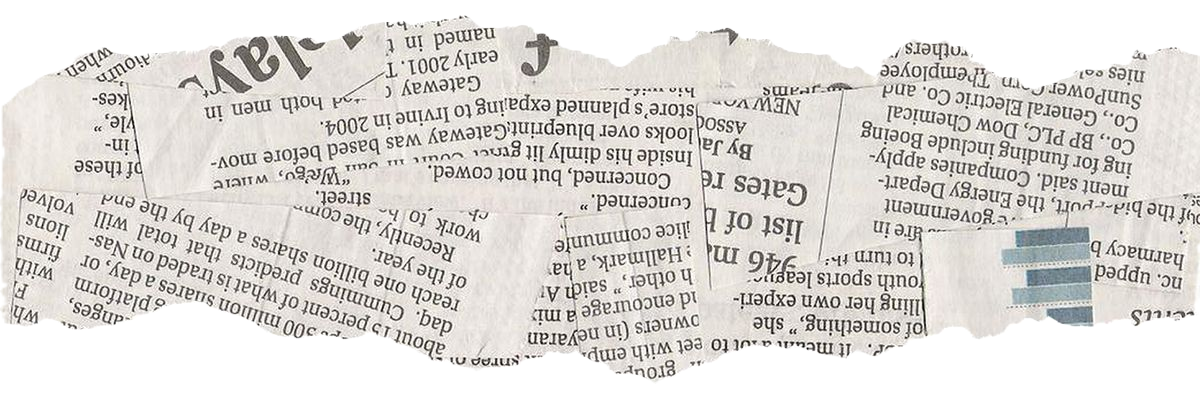
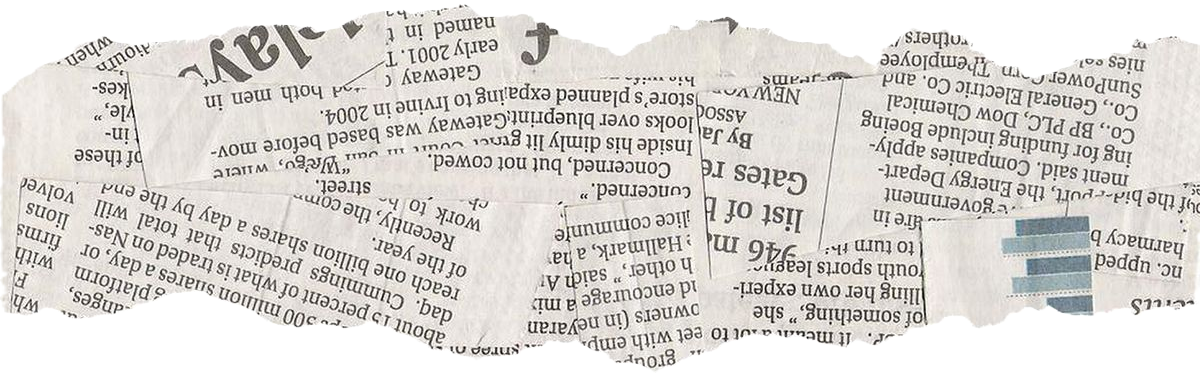
complete layout for home page

Changed region(s): [[0.0, 0.0, 1.0, 1.0], [0.0, 0.2064, 0.0308, 0.2359]]

diff --git a/enhypen-knife/src/pages/HomePage.jsx b/enhypen-knife/src/pages/HomePage.jsx
@@ -5,8 +5,14 @@ import tvOverlay from "../assets/overlay/box_tv.png";
 import knifeMV from "../assets/video/knife_mv.mp4";
 import enhypenText from "../assets/text/enhypen_text.png";
 import albumText from "../assets/text/the_sin_vanish_text.png";
-import crackedGlass from "../assets/overlay/cracked_glass_overlay1.png";
-
+import one from "../assets/photoshoot/one.png";
+import two from "../assets/photoshoot/two.png";
+import three from "../assets/photoshoot/three.png"; 
+import four from "../assets/photoshoot/four.png"; 
+import five from "../assets/photoshoot/five.png";
+import six from "../assets/photoshoot/six.png";
+import seven from "../assets/photoshoot/seven.png";
+import crackedGlass from "../assets/overlay/cracked_glass_overlay1.png"
 function HomePage() {
   const videoRef = useRef(null);
   const [volume, setVolume] = useState(50);
@@ -26,7 +32,51 @@ const togglePlayPause = () => {
     videoRef.current.play();
   }
   setIsPlaying(!isPlaying);
-};
+    };
+    const previewSections = [
+        {
+            title: "STREAMING",
+            description: "Authorities report unusual replay activity connected to The Sin: Vanish. Access direct streaming portals and support the operation across all platforms.",
+            image: one,
+            link: "/stream"
+        },
+        {
+            title: "TRACKLIST",
+            description: "Investigators uncovered hidden meanings buried within each track. Examine lyrics, concept details, and classified song files connected to the case.",
+            image: two,
+            link: "/tracklist"
+        },
+        {
+            title: "QUIZ",
+            description: "Psychological evaluations now available. Determine which song reflects your behavior patterns and emotional alignment.",
+            image: three,
+            link: "/quiz"
+        },
+        {
+            title: "MEMBERS",
+            description: "Detailed profiles reveal each member's involvement within The Sin: Vanish operation, including personal statements and preferred tracks.",
+            image: four,
+            link: "/members"
+        },
+        {
+            title: "MEDIA HUB",
+            description: "Broadcast footage, interviews, behind-the-scenes evidence, and live performance recordings have been archived for public viewing.",
+            image: five,
+            link: "/media-hub"
+        },
+        {
+            title: "MINI GAME",
+            description: "Users may enter a simulated decision experiment inspired by ongoing events connected to the Knife incident.",
+            image: six,
+            link: "/mini-game"
+        },
+        {
+            title: "ALBUM WORLD",
+            description: "Explore the mythology, visual symbolism, vampiric themes, and underground narrative surrounding The Sin: Vanish.",
+            image: seven,
+            link: "/album"
+        }
+]
   return (
     <div className="homepage">
       <NavBar />
@@ -34,17 +84,38 @@ const togglePlayPause = () => {
       <section className="hero-section">
         <img src={albumText} alt="The Sin: Vanish" className="album-title" />
         <img src={enhypenText} alt="ENHYPEN" className="enhypen-title" />
-        <div className="tv-container">
-          <video ref={videoRef} src={knifeMV} autoPlay loop className="music-video"/>
-          <img src={tvOverlay} alt="box tv overlay" className="tv-overlay" />
-        </div>
+              <div className="tv-container">
+                  <div className="tv-screen">
+                      <video
+                          ref={videoRef}
+                          src={knifeMV}
+                          autoPlay
+                          loop
+                          className="music-video"/>
+                      <img
+                          src={crackedGlass}
+                          alt="cracked glass overlay"
+                          className="cracked-overlay"/>
+                  </div>
+                  <img src={tvOverlay} alt="tv frame" className="tv-frame" />
+              </div>
         <input type="range" min="0" max="100" value={volume} onChange={handleVolumeChange} className="volume-slider"/>
         <button onClick={togglePlayPause} className="play-button"> {isPlaying ? "Pause" : "Play"}</button>
       </section>
-{/* preview sections */}
-      <section className="preview-section">
-        {/* <img src={crackedGlass} alt="cracked glass overlay" className="glass-overlay" /> */}
-      </section>
+ {/* preview sections */}
+          <section className="preview-wrapper">
+              {previewSections.map((section, index) => (
+                  <a href={section.link} className={`preview-card ${index % 2 === 0 ? "normal" : "reverse"}`} key={section.title}>
+                      <div className="preview-text">
+                          <h2>{section.title}</h2>
+                          <p>{section.description}</p>
+                      </div>
+                      <div className="preview-image-container">
+                          <img src={section.image} alt={section.title } className="preview-image"/>
+                      </div>
+                  </a>
+              )) }
+          </section>
 {/* footer */}
       <footer className="footer">
         Fan-made ENHYPEN project. Not official.

diff --git a/enhypen-knife/src/styles/HomePage.css b/enhypen-knife/src/styles/HomePage.css
@@ -12,24 +12,41 @@
   justify-content: center;
 }
 .tv-container {
-  position: relative;
-  width: 700px;
-  max-width: 90%;
+   position: relative;
+   width: 700px;
+   max-width: 90%;
+}
+.tv-screen {
+    position: absolute;
+    top: 12%;
+    left: 4%;
+    width: 70%;
+    height: 69%;
+    overflow: hidden;
+    z-index: 1;
 }
 .music-video {
-  position: absolute;
-  top: 12%;
-  left: 4%;
-  width: 70%;
-  height: 69%;
-  object-fit: cover;
-  z-index: 1;
+    width: 100%;
+    height: 100%;
+    object-fit: cover;
+    z-index: 1;
 }
-.tv-overlay {
-  position: relative;
-  z-index: 2;
-  width: 100%;
-  display: block;
+.cracked-overlay {
+    position: absolute;
+    inset: 0;
+    width: 100%;
+    height: 100%;
+    object-fit: cover;
+    z-index: 2;
+    pointer-events: none;
+    opacity: 0.6;
+    mix-blend-mode: screen;
+}
+.tv-frame {
+    position: relative;
+    width: 100%;
+    display: block;
+    z-index: 3;
 }
 .album-title{
   width: 420px;
@@ -38,7 +55,7 @@
   filter: drop-shadow(0 0 10px rgba(255, 0, 0, 0.35));
 }
 .enhypen-title{
-  width: 180px;
+  width: 130px;
   max-width: 50%;
   margin-bottom: 1.5rem;
   z-index: 5;
@@ -71,4 +88,109 @@
 .footer{
   text-align: center;
   margin: 1rem;
+}
+.preview-wrapper{
+    width: 100%;
+    display: flex;
+    flex-direction: column;
+    gap: 6rem;
+    padding: 6rem 8%;
+}
+.preview-card {
+    display: flex;
+    flex-direction: row;
+    align-items: stretch;
+    justify-content: space-between;
+    gap: 0;
+    position: relative;
+    text-decoration: none;
+    color: white;
+    padding: 3rem;
+    overflow: hidden;
+    border: 1px solid rgba(255, 255, 255, 0.2);
+    transition: 0.3s ease;
+}
+.preview-card.reverse{
+    flex-direction: row-reverse;
+}
+.preview-card:hover{
+    transform: scale(1.01);
+}
+.preview-card::before {
+    content: "";
+    position: absolute;
+    inset: 0;
+    background-image: url("../assets/background/vertical_ripped_newspaper.png");
+    background-size: cover;
+    background-position: center;
+    opacity: 0.35;
+    z-index: 0;
+}
+.preview-card::after {
+    content: "";
+    position: absolute;
+    inset: 0;
+    background: linear-gradient( 90deg, rgba(0,0,0,0.45), rgba(0,0,0,0.2), rgba(0,0,0,0.45) );
+    z-index: 1;
+}
+.preview-text {
+    flex: 1;
+    flex-basis: 50%;
+    max-width: 50%;
+    box-sizing: border-box;
+    position: relative;
+    z-index: 2;
+    padding: 3rem;
+    display: flex;
+    flex-direction: column;
+    justify-content: center;
+    min-height: 320px;
+    border: 1px solid rgba(255, 255, 255, 0.2);
+    background: rgba(0, 0, 0, 0.55);
+    backdrop-filter: blur(6px);
+}
+.preview-text h2{
+    font-family: "Orbitron", sans-serif;
+    font-size: 2rem;
+    margin-bottom: 1rem;
+    text-decoration: underline;
+    text-underline-offset: 6px;
+    letter-spacing: 2px;
+}
+.preview-text p{
+    line-height: 1.8;
+    font-size: 1rem;
+    color: rgba(255, 255, 255, 0.9);
+}
+.preview-image {
+    width: 100%;
+    max-width: 450px;
+    height: 320px;
+    object-fit: cover;
+    filter: grayscale(100%) contrast(120%) brightness(70%);
+    border: 1px solid rgba(255, 255, 255, 0.15);
+    box-shadow: 0 10px 40px rgba(0, 0, 0, 0.6);
+    transition: 0.3s ease;
+}
+.preview-image:hover{
+    filter: grayscale(20%) contrast(120%) brightness(90%);
+    transform: scale(1.02);
+}
+.preview-image-container {
+    flex: 1;
+    flex-basis: 50%;
+    max-width: 50%;
+    display: flex;
+    justify-content: center;
+    align-items: center;
+    z-index: 2;
+}
+.preview-text,
+.preview-image-container {
+    position: relative;
+    z-index: 2;
+}
+.preview-text h2,
+.preview-text p {
+    text-shadow: 0 2px 8px rgba(0, 0, 0, 0.8);
 }
